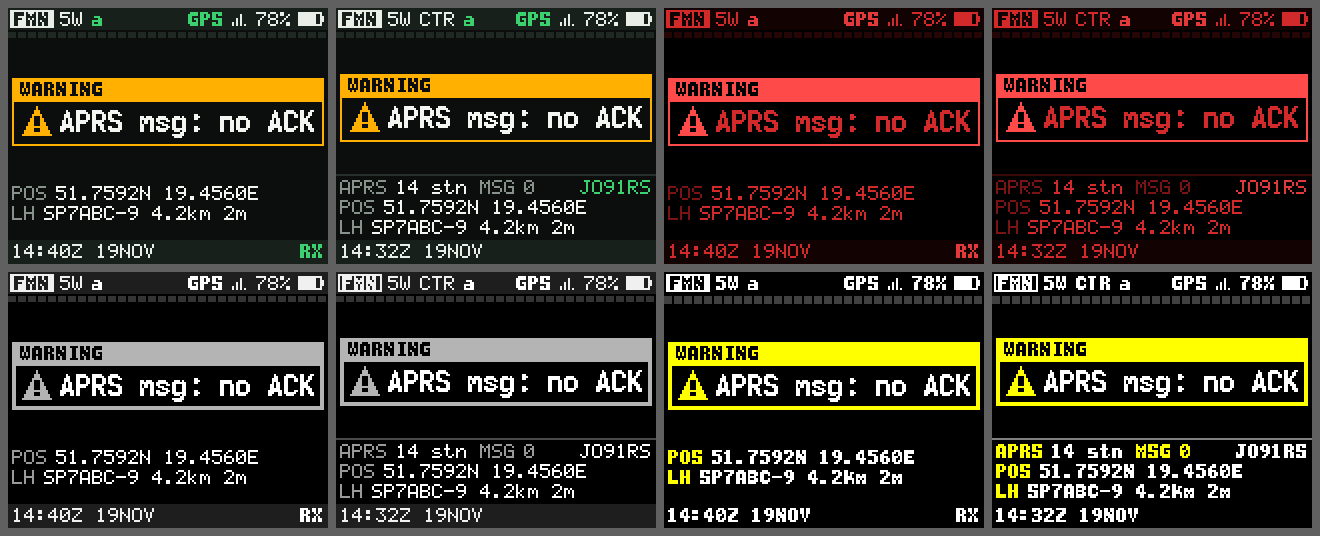
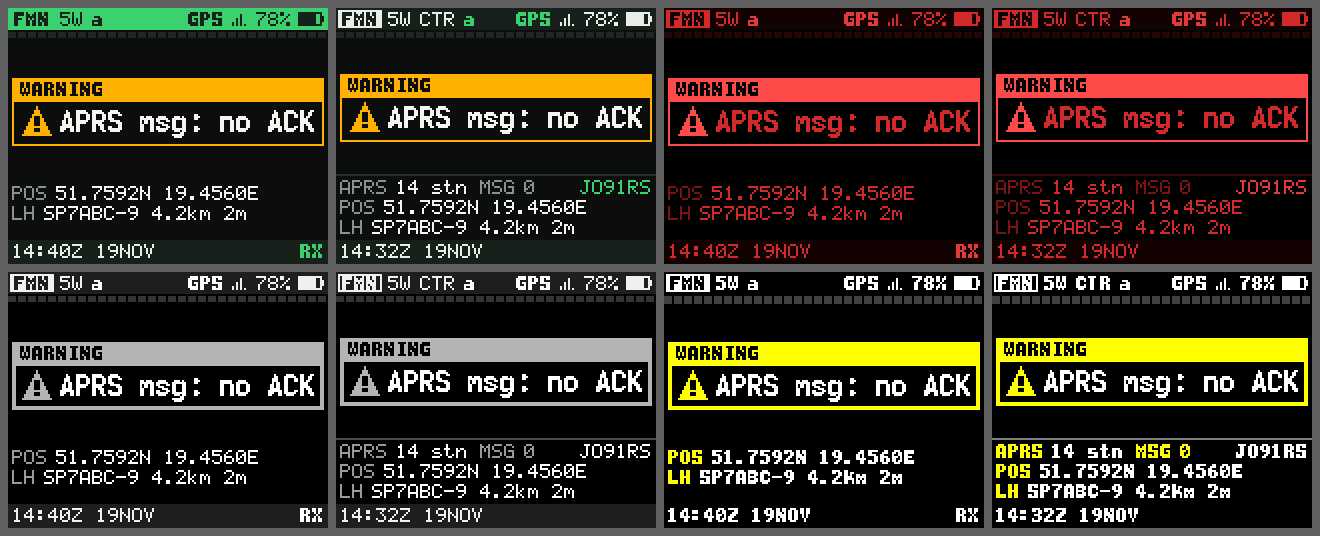
refactor: update status bar header and chip color logic in emcom UI and renderer

Changed region(s): [[0.0, 0.0, 0.2485, 0.0597]]

diff --git a/docs/screens/render_screens.py b/docs/screens/render_screens.py
@@ -97,7 +97,7 @@ class Screen:
 DARK = dict(bg=0x0B0E0C, fg=0xF2F5F0, mut=0x86928A, line=0x28302B, bar=0x18201B, barFg=0xE9EEE7,
             rx=0x3BD16F, tx=0xFF3B30, scan=0xFFB000, info=0x5AC8FA, seg=0x202823, txFg=0xFFFFFF)
 NIGHT = dict(bg=0x000000, fg=0xD22A2A, mut=0x7A1414, line=0x3A0808, bar=0x120202, barFg=0xD22A2A,
-             rx=0xE23A3A, tx=0xFF4A4A, scan=0xA51C1C, info=0xC02626, seg=0x250505, txFg=0xFFFFFF)
+             rx=0xE23A3A, tx=0xFF4A4A, scan=0xA51C1C, info=0xC02626, seg=0x250505, txFg=0xFFFFFF, night=True)
 MONO = dict(bg=0x000000, fg=0xFFFFFF, mut=0x9A9A9A, line=0x4A4A4A, bar=0x1E1E1E, barFg=0xF0F0F0,
             rx=0xFFFFFF, tx=0xFFFFFF, scan=0xB4B4B4, info=0xD8D8D8, seg=0x343434, txFg=0x000000, cues=True)
 MONO_NIGHT = dict(NIGHT, txFg=0x000000, cues=True)
@@ -105,7 +105,7 @@ CONTRAST = dict(bg=0x000000, fg=0xFFFFFF, mut=0xFFFF00, line=0x808080, bar=0x000
                 rx=0xFFFFFF, tx=0xFFFF00, scan=0xFFFF00, info=0xFFFFFF, seg=0x404040, txFg=0x000000, cues=True, large=True)
 CONTRAST_NIGHT = dict(bg=0x000000, fg=0xFFA000, mut=0xFF4020, line=0x802000, bar=0x000000, barFg=0xFFA000,
                       rx=0xFFA000, tx=0xFFA000, scan=0xFF4020, info=0xFFA000, seg=0x401000, txFg=0x000000,
-                      cues=True, large=True)
+                      cues=True, large=True, night=True)
 
 
 def f1(P):
@@ -163,21 +163,29 @@ def status_bar(s, P, state='STBY', mode='FMN', pwr='5W', tone='CTR', aprs=True, 
                low=False, fix=True):
     is_tx = state == 'TX'
     cues = P.get('cues', False)
-    fg = P['txFg'] if is_tx else P['barFg']
-    s.fill(0, 0, W, STATUS_H, P['tx'] if is_tx else P['bar'])
+    colour_state_header = (not P.get('night', False)) and (not cues)
+    colour_state_rx_header = colour_state_header and state == 'RX'
+    fg = P['txFg'] if is_tx else (P['bar'] if colour_state_rx_header else P['barFg'])
+    s.fill(0, 0, W, STATUS_H, P['tx'] if is_tx else (P['rx'] if colour_state_rx_header else P['bar']))
     if sos_phase is not None:
         s.fill(0, 0, W, STATUS_H, P['tx'] if sos_phase else P['bar'])
         s.text((W - 13 * 6) // 2, 2, 'EMERGENCY SOS', '1b', P['txFg'] if sos_phase else P['tx'])
         return
     chip = {'TX': 'TX', 'SCAN': 'SCAN'}.get(state, mode)
+    chip_text = P['tx'] if is_tx else P['bar']
     chip_c = {'TX': P['txFg'], 'SCAN': P['scan']}.get(state, P['barFg'])
+    colour_state_chip = colour_state_header
+    if colour_state_chip and state == 'TX':
+        chip_c, chip_text = P['tx'], P['txFg']
+    elif colour_state_chip and state == 'RX':
+        chip_c, chip_text = P['rx'], P['bar']
     cw = len(chip) * 6 + 4
     if cues and state == 'STBY':
         s.rect(1, 1, cw, 9, chip_c)
         s.text(3, 2, chip, '1b', chip_c)
     else:
         s.fill(1, 1, cw, 9, chip_c)
-        s.text(3, 2, chip, '1b', P['tx'] if is_tx else P['bar'])
+        s.text(3, 2, chip, '1b', chip_text)
     x = cw + 4
     if state not in ('STBY', 'RX'):
         x += s.text(x, 2, mode, f1(P), fg) + 4
@@ -185,7 +193,7 @@ def status_bar(s, P, state='STBY', mode='FMN', pwr='5W', tone='CTR', aprs=True, 
     if tone:
         x += s.text(x, 2, tone, f1(P), fg) + 4
     if aprs:
-        s.text(x, 2, 'a', '1b', fg if is_tx else P['rx'])
+        s.text(x, 2, 'a', '1b', fg if (is_tx or colour_state_rx_header) else P['rx'])
     r = W - 2
     bc = P['tx'] if (low and not cues) else fg
     s.rect(r - 13, 2, 12, 7, bc); s.fill(r - 1, 4, 1, 3, bc); s.fill(r - 12, 3, (batt * 10 + 50) // 100, 5, bc)
@@ -204,7 +212,7 @@ def status_bar(s, P, state='STBY', mode='FMN', pwr='5W', tone='CTR', aprs=True, 
     r -= 12
     if gps:
         if fix:
-            s.text(r, 2, 'GPS', '1b', fg if is_tx else P['rx'], True)
+            s.text(r, 2, 'GPS', '1b', fg if (is_tx or colour_state_rx_header) else P['rx'], True)
         else:
             s.text(r, 2, 'GPS', 1 if cues else '1b', P['mut'], True)
 

diff --git a/MDUV380_firmware/application/source/user_interface/uiEmcom.c b/MDUV380_firmware/application/source/user_interface/uiEmcom.c
@@ -692,8 +692,10 @@ void emcomRenderStatusBar(void)
 	int16_t x;
 
 	selectPalette();
-	barCol = (isTx ? pal->tx : pal->bar);
-	fg = (isTx ? pal->txFg : pal->barFg);
+	bool colourStateHeader = ((DAYTIME_CURRENT != NIGHT) && (pal->cues == false));
+	bool colourStateRxHeader = (colourStateHeader && (st == ST_RX));
+	barCol = (isTx ? pal->tx : (colourStateRxHeader ? pal->rx : pal->bar));
+	fg = (isTx ? pal->txFg : (colourStateRxHeader ? pal->bar : pal->barFg));
 
 	fill(0, 0, DISPLAY_SIZE_X, STATUS_H, barCol);
 	fill(0, STATUS_H, DISPLAY_SIZE_X, 1, pal->bg); // the classic header clear uses the theme colour
@@ -712,7 +714,25 @@ void emcomRenderStatusBar(void)
 	// repeated in the footer with the TX and SCAN indicators.
 	const char *mode = (digital ? "DMR" : (trxGetBandwidthIs25kHz() ? "FM" : "FMN"));
 	const char *chip = ((st == ST_TX) ? "TX" : ((st == ST_SCAN) ? "SCAN" : mode));
-	uint32_t chipCol = ((st == ST_TX) ? pal->txFg : ((st == ST_SCAN) ? pal->scan : pal->barFg));
+	uint32_t chipCol;
+	uint32_t chipTextCol;
+	bool colourStateChip = colourStateHeader;
+
+	if (colourStateChip && (st == ST_TX))
+	{
+		chipCol = pal->tx;
+		chipTextCol = pal->txFg;
+	}
+	else if (colourStateChip && (st == ST_RX))
+	{
+		chipCol = pal->rx;
+		chipTextCol = pal->bar;
+	}
+	else
+	{
+		chipCol = ((st == ST_TX) ? pal->txFg : ((st == ST_SCAN) ? pal->scan : pal->barFg));
+		chipTextCol = (isTx ? pal->tx : pal->bar);
+	}
 	int16_t chipW = (int16_t)((strlen(chip) * 6) + 4);
 
 	if (pal->cues && (st == ST_STBY))
@@ -725,7 +745,7 @@ void emcomRenderStatusBar(void)
 	else
 	{
 		fill(1, 1, chipW, 9, chipCol);
-		text(3, 2, chip, FONT_SIZE_1_BOLD, (isTx ? pal->tx : pal->bar), false);
+		text(3, 2, chip, FONT_SIZE_1_BOLD, chipTextCol, false);
 	}
 	x = chipW + 4;
 
@@ -753,7 +773,7 @@ void emcomRenderStatusBar(void)
 	if (currentChannelData->aprsConfigIndex != 0)
 	{
 		bool beaconing = ((aprsBeaconingGetMode() != APRS_BEACONING_MODE_OFF) && (aprsBeaconingIsSuspended() == false));
-		textRaw(x, 2, "a", (beaconing ? FONT_SIZE_1_BOLD : FONT_SIZE_1), (isTx ? fg : (beaconing ? pal->rx : pal->mut)), false);
+		textRaw(x, 2, "a", (beaconing ? FONT_SIZE_1_BOLD : FONT_SIZE_1), (isTx ? fg : (beaconing ? (colourStateRxHeader ? fg : pal->rx) : pal->mut)), false);
 	}
 
 	// Right side: battery icon + %, volume, GPS
@@ -806,7 +826,7 @@ void emcomRenderStatusBar(void)
 	{
 		bool fix = gpsHasFix();
 		// mono / contrast: no fix also in the thin font
-		textRaw(r, 2, "GPS", ((fix || (pal->cues == false)) ? FONT_SIZE_1_BOLD : FONT_SIZE_1), (fix ? (isTx ? fg : pal->rx) : pal->mut), true);
+		textRaw(r, 2, "GPS", ((fix || (pal->cues == false)) ? FONT_SIZE_1_BOLD : FONT_SIZE_1), (fix ? (isTx ? fg : (colourStateRxHeader ? fg : pal->rx)) : pal->mut), true);
 	}
 #endif
 
